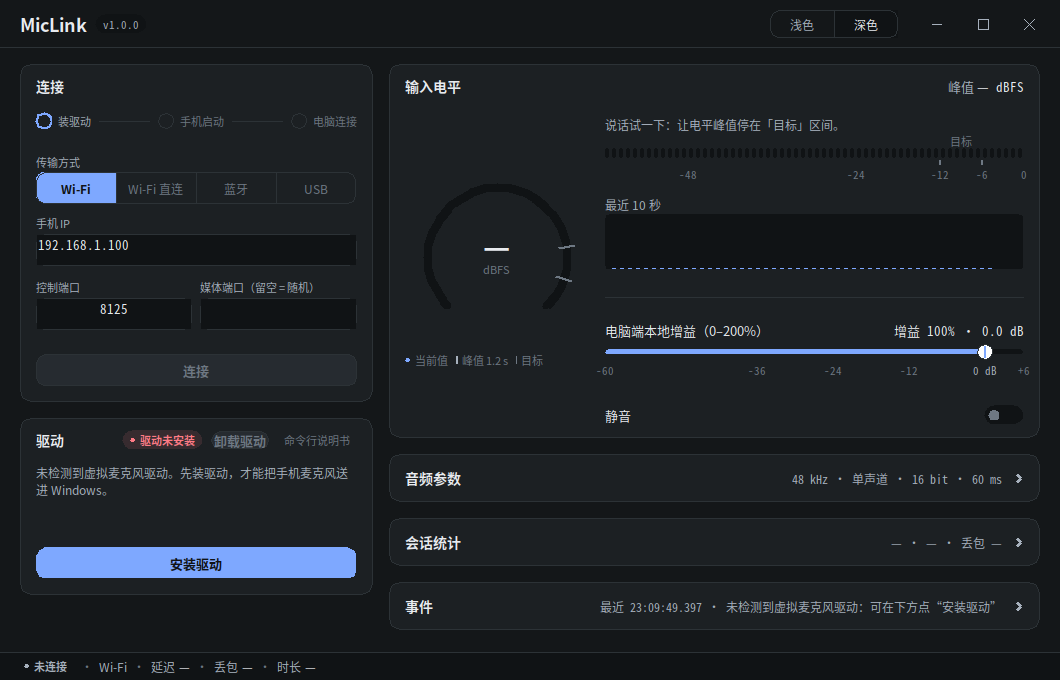
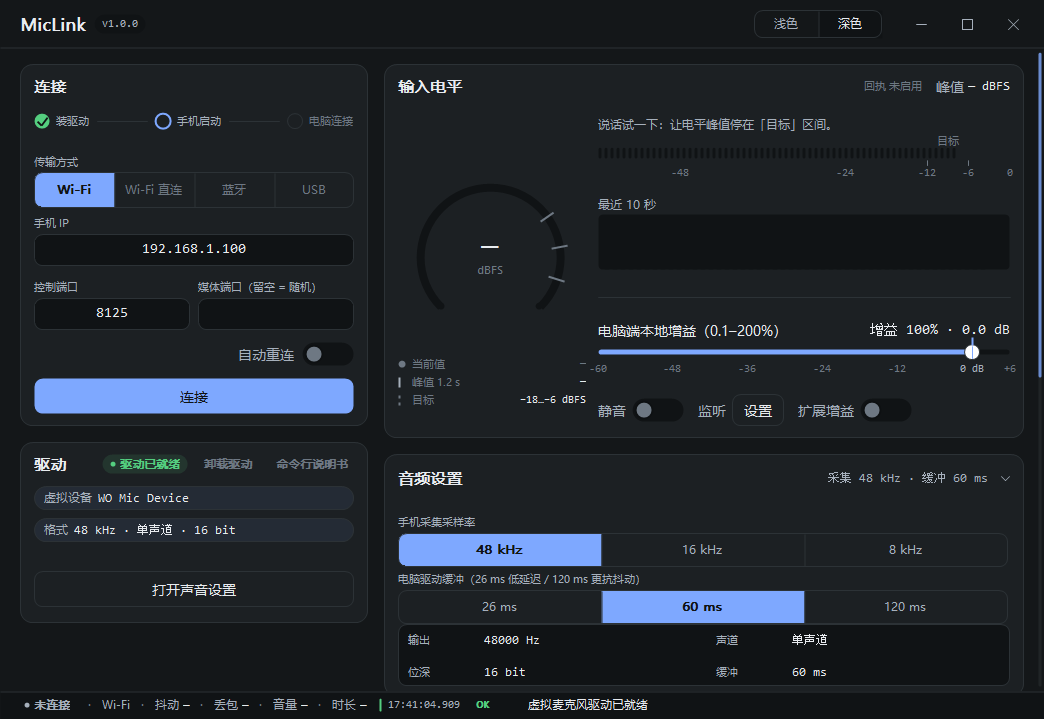
docs: refresh client screenshots and product gallery

diff --git a/site/index.html b/site/index.html
@@ -96,6 +96,7 @@
     .note-strip strong { color:#513719; }
     .shots { padding-top:20px; background:#fff; }
     .shot-grid { display:grid; grid-template-columns:1.18fr .91fr .91fr; gap:18px; align-items:start; }
+    .shot-grid.more { margin-top:30px; }
     figure { margin:0; }
     .shot { overflow:hidden; border:1px solid #dce2ed; border-radius:18px; background:#111722; box-shadow:0 15px 34px rgba(27,39,66,.09); }
     .shot img { display:block; width:100%; height:auto; }
@@ -225,7 +226,7 @@
         <div class="section-heading">
           <div class="kicker">In the app</div>
           <h2>信息清楚，操作不绕。</h2>
-          <p>界面展示连接、音源和采集控制。以下截图来自现有客户端/模拟器验证材料，手机地址是测试环境数据。</p>
+          <p>界面展示连接、音源和采集控制。以下截图来自 Windows 客户端和 Android 模拟器的本轮验证材料，手机地址是测试环境数据。</p>
         </div>
         <div class="shot-grid">
           <figure>
@@ -239,6 +240,20 @@
           <figure>
             <div class="shot"><img src="assets/android-source-test.png" alt="Android 音源设置页面截图" loading="lazy"></div>
             <figcaption class="shot-caption"><strong>Android · 音源</strong>系统音源与采集选项入口。</figcaption>
+          </figure>
+        </div>
+        <div class="shot-grid more">
+          <figure>
+            <div class="shot"><img src="assets/windows-monitor-dark.png" alt="Windows 监听设置，显示输出设备与两个处理模块" loading="lazy"></div>
+            <figcaption class="shot-caption"><strong>Windows · 监听</strong>输出设备与处理模块可在运行中切换。</figcaption>
+          </figure>
+          <figure>
+            <div class="shot"><img src="assets/android-advanced-test.png" alt="Android 高级页面，显示系统音效和连接设置" loading="lazy"></div>
+            <figcaption class="shot-caption"><strong>Android · 高级</strong>系统音效的可用性由设备决定。</figcaption>
+          </figure>
+          <figure>
+            <div class="shot"><img src="assets/android-about-test.png" alt="Android 关于与帮助页面，展示使用步骤和组件许可" loading="lazy"></div>
+            <figcaption class="shot-caption"><strong>Android · 帮助</strong>连接步骤和开源许可集中查看。</figcaption>
           </figure>
         </div>
       </div>

diff --git a/README.md b/README.md
@@ -55,6 +55,6 @@ Android 模拟器闭环、Windows 驱动与录音验证、Tailscale 双机推流
 
 ## 许可
 
-原创代码使用 [MIT 许可](LICENSE)。第三方组件及驱动说明见 [NOTICE](NOTICE.md)。
+自有代码以 [MIT 许可](LICENSE)为主；Ring Out 适配及包含它的测试组合使用 GPL-3.0-or-later。第三方组件及驱动说明见 [NOTICE](NOTICE.md)。
 
 构建、自动验证及临时调试环境的操作见[工作流使用说明](.github/workflows/README.md)。
